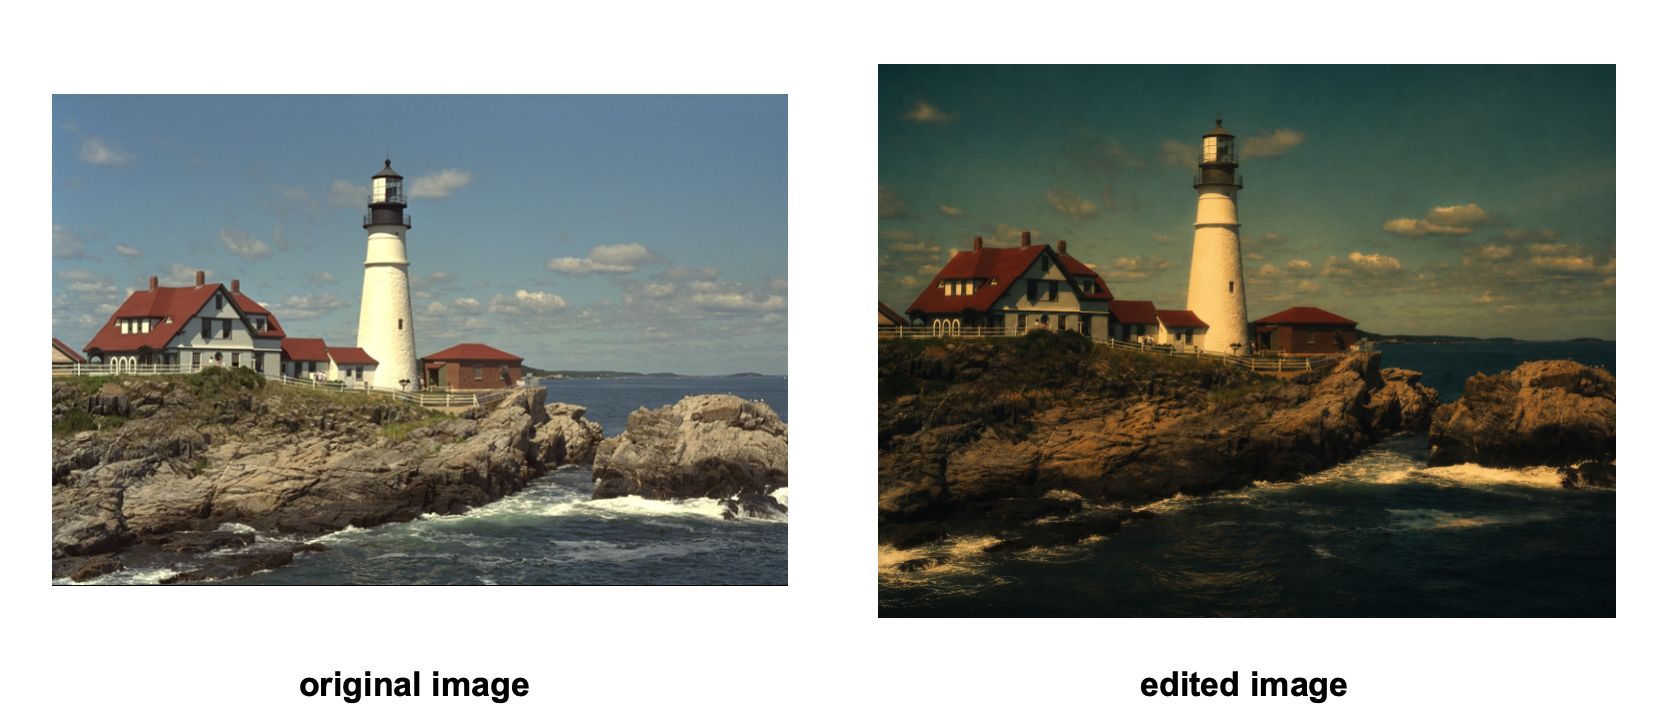
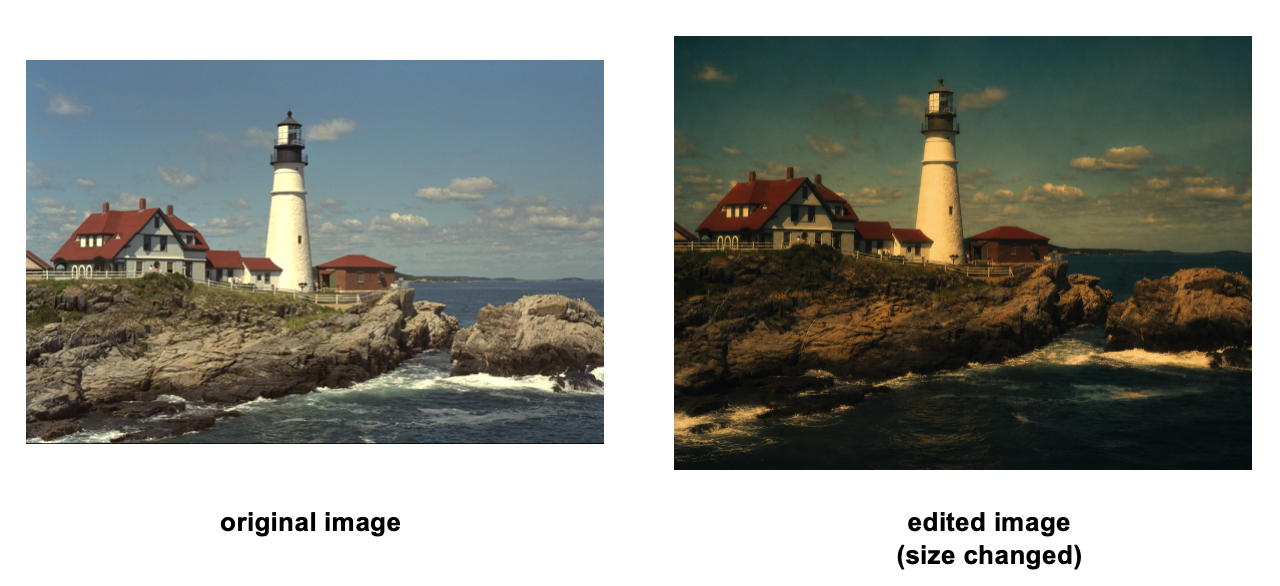
Update read me

diff --git a/README.md b/README.md
@@ -19,6 +19,10 @@ The example below shows one real failure case.
 <p align="center">
   <img src="images/read_me_1.png" width="600">
 </p>
+<p align="center">
+  <img src="images/read_me_2.png" width="600">
+</p>
+
 
 ## Goal
 